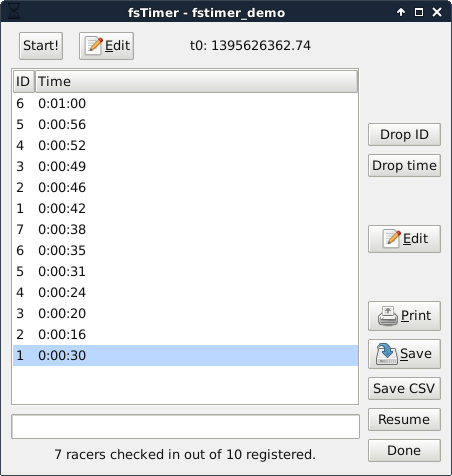
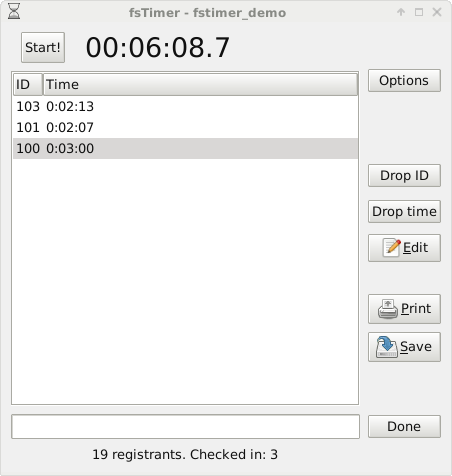
more documentation updates

Changed region(s): [[0.0, 0.0, 1.0, 1.0], [0.1239, 0.9412, 0.7124, 0.9706], [0.0, 0.9706, 0.031, 1.0]]

diff --git a/documentation/documentation_sec4_5.htm b/documentation/documentation_sec4_5.htm
@@ -46,7 +46,7 @@ Finally we reach the details about the Timing window. When loading the Timing wi
 
 Once these have been specified, the timing window loads.<br><br>
 
-<b><i>Entering and editing times</b></i><br><br>
+<b><i>Entering times</b></i><br><br>
 
 The first thing you will do in a race will be to press "Start!" at the exact moment that the race begins. This starts the clock ticking and all marked times will be recorded as time elapsed since this moment.<br><br>
 
@@ -77,6 +77,8 @@ Marked times can also always be filled with the pass ID (we usually choose 0) th
 <img width="362" height="381" src="documentation_figs/fstimer_fig48.png"><br><br> <!--452x476-->
 
 As a note, if you just hit Enter without anything entered into the entrybox, then it will do a usual ID entry where the ID is a blank string ''. Blank IDs are not included in the results printouts (they behave in the same way as the pass ID).<br><br>
+
+<b><i>Editing times</b></i><br><br>
 
 The "Edit" button on the right side of the window allows you to edit the ID and/or time of any of the marked times. For instance, suppose one of the pass IDs used in the above screenshot was a placeholder for a runner whose bib ID could not be obtained immediately (see <a href="documentation_sec3_1.htm">Section 3.1</a> for some situations where you might want to do this). We can later go back and replace the pass ID (the 0) with his true ID by pressing "Edit", and replacing "0" with his true ID:<br><br>
 
@@ -150,20 +152,14 @@ Pressing "Options" and selecting "Edit starting time" opens a dialog through whi
 
 <img width="503" height="114" src="documentation_figs/fstimer_fig62.png"><br><br> <!--629x142-->
 
+The long number in the entry box is the number of seconds since the start of the Unix epoch - but this isn't important. If you add or subtract seconds from that number, they will be correspondingly added or subtracted from the start time. For example, subtracting 300 from the number in the above screenshot yields 1415048032.83. If we were to replace the number currently there with 1415048032.83 then the start time will be pushed five minutes earlier.<br><br>
 
-
-
-
-
-Pressing the "Edit" button next to the "Start!" button will allow you to change the t0, to adjust the start time for the race. Exercise caution doing this, as the old time is not saved and this change cannot be (automatically) undone. It is very unlikely that you will ever need to modify the start time, but if you do, then simply add or subtract to the large t0 number the number of seconds that you wish to change the start time by. For the image above, if we wanted to move the start time to be 5 minutes earlier, then we would subtract 300 seconds from the t0 and change it to be 1395622297.15. It is important to note that fsTimer records all times relative to this t0 start time. If you change t0 mid-race, it will <i>not</i> adjust any times that have already been recorded.<br><br>
-
-
-
+If you change this time mid-race, it will <i>not</i> adjust any times that have already been recorded. Those times could be adjusted using the block edit functionality described above.<br><br>
 
 <b><i>Making corrections to results</b></i><br><br>
 
 We will now briefly discuss making corrections to the results, which can typically only be done after the race has finished.<br><br>
-As mentioned above, times and their associated bib IDs can be edited using the "Edit" button in the timing window. You can edit times so that they are no longer in order in the window, like 1 in the screenshot below, and this is not a problem; fsTimer will correctly sort them when generating the results printouts:<br><br>
+As mentioned above, times and their associated bib IDs can be edited using the "Edit" button in the timing window. You can edit times so that they are no longer in order in the window, like 100 in the screenshot below, and this is not a problem; fsTimer will correctly sort them when generating the results printouts:<br><br>
 
 <img width="362" height="381" src="documentation_figs/fstimer_fig52.png"><br><br> <!--452x476-->
 
